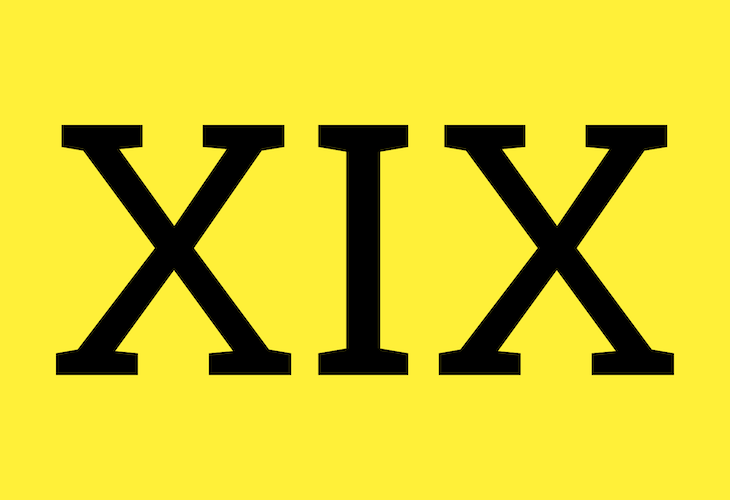
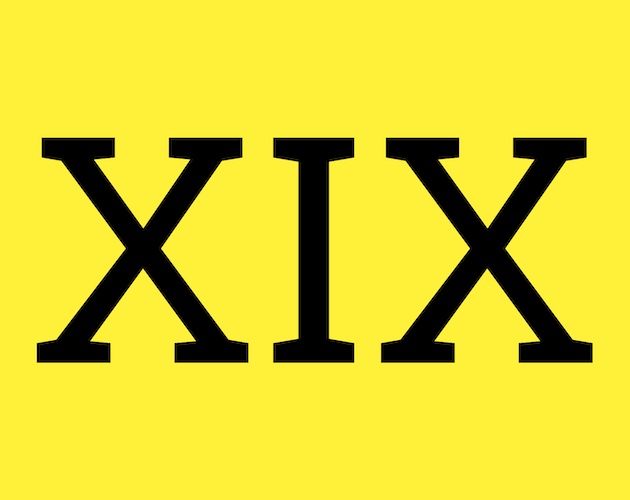
Fixed some minor layout problems.

diff --git a/xix_pages.tex b/xix_pages.tex
@@ -79,7 +79,7 @@ XIX
 \setmainfont{Roboto}%
 \raggedright%
 \section*{Overview}
-\textRN{19} is an eighteen-card strategy game for two players. It can be played in about thirty minutes and is intended for players who are at least eight years old.
+\textRN{19} is an 18-card strategy game for two players. It can be played in about thirty minutes and is intended for players who are at least eight years old.
 
 \section*{Components}
 \begin{description}[leftmargin=0pt, labelsep=\widthof{\ }]
@@ -136,7 +136,7 @@ If the face values of the two cards played in a trick add up to nineteen, then w
 \newpage
 
 \subsection*{Strikes}
-If your opponent takes a trick then you receive a strike. Slide a card from the strike row towards you when you take a strike. This will help you track how many strikes have been received in the current exchange.
+If your opponent takes a trick then you receive a strike. Slide a card from the strike row towards you when you take a strike. This will help you keep track of how many strikes have been received in the current exchange.
 
 
 After you receive a strike you must either:

diff --git a/itch_thumbnail.tex b/itch_thumbnail.tex
@@ -1,10 +1,10 @@
 \documentclass{standalone}
 \usepackage{xix}
-\setmainfont[Scale=10.0]{Roboto Slab}
+\setmainfont[Scale=9.0]{Roboto Slab}
 \huge
 \begin{document}
 \begin{tikzpicture}
-\fill[yellow] (-3.65,-2.5) rectangle (3.65,2.5);
+\fill[yellow] (-3.15,-2.5) rectangle (3.15,2.5);
 \node[inner sep = 0pt] () at (0,0) {XIX};
 \end{tikzpicture}
 \end{document}
